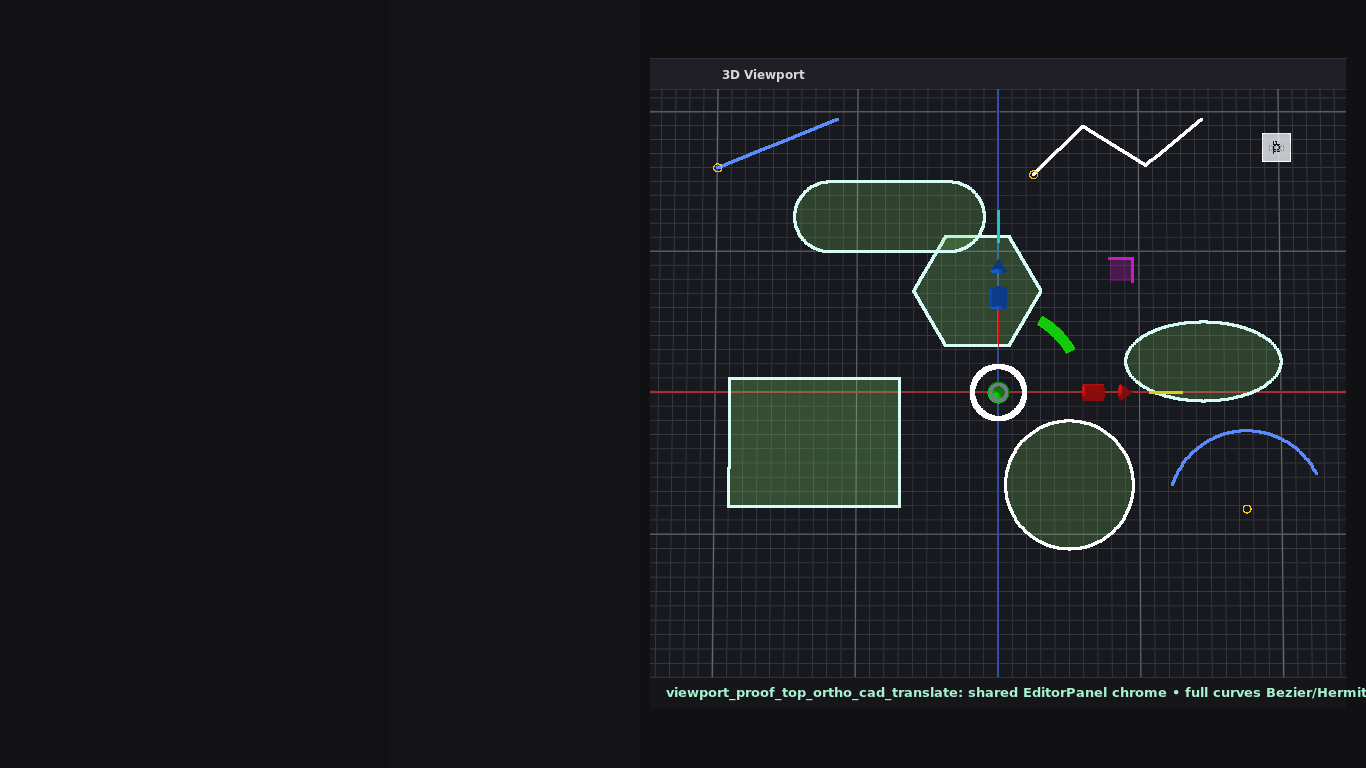
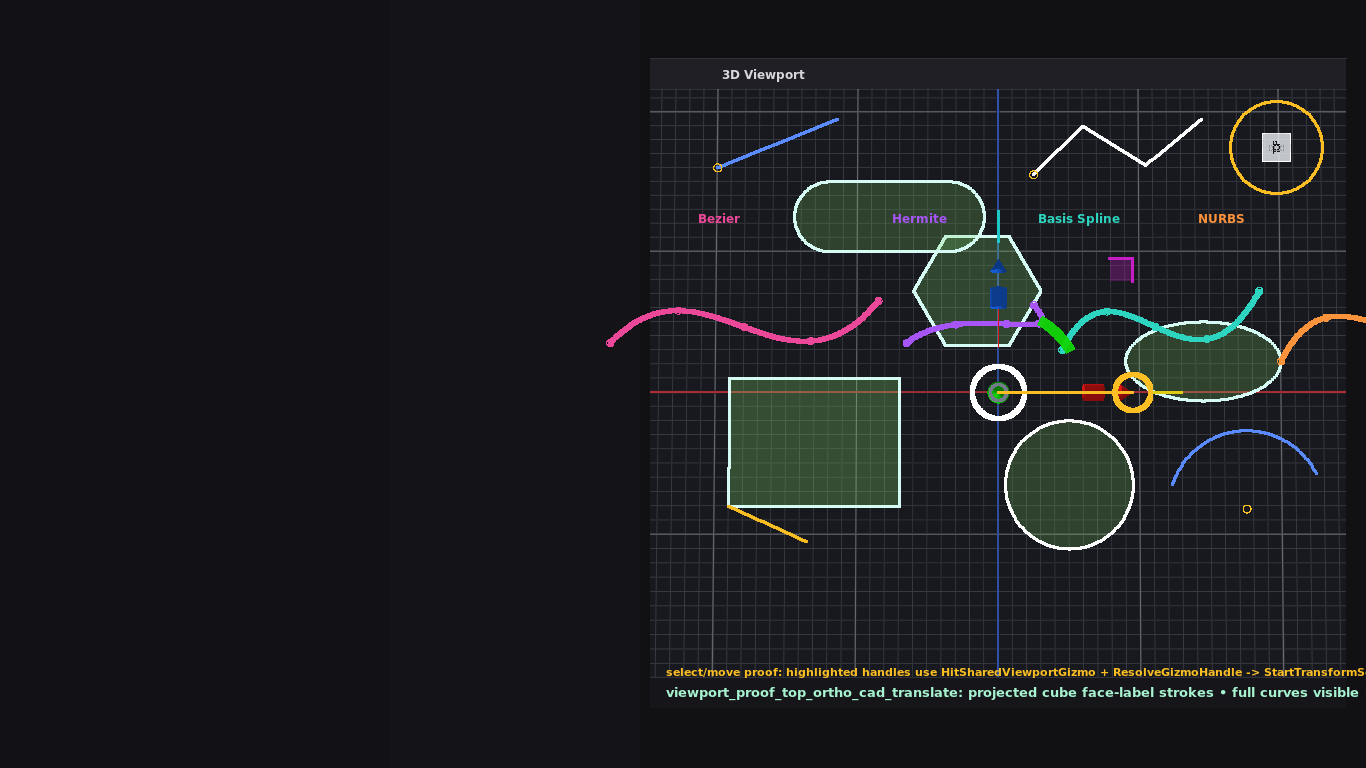
Clarify curve and interaction visual proof

diff --git a/Tools/RenderViewportPanelProof.py b/Tools/RenderViewportPanelProof.py
@@ -289,6 +289,41 @@ def draw_cad_tools(img: Image, cam: Camera) -> None:
         q = P(x, z)
         if q: img.circle(q[0], q[1], 4, (251, 191, 36), 1, 1)
 
+    # Newly exposed full curve set, drawn large and bright in the scene.
+    # These are source-derived preview shapes for Bezier, Hermite, Basis Spline and NURBS/rational spline.
+    def draw_curve(points: list[tuple[float, float]], colour: Color, width: int = 5) -> None:
+        projected = [P(x, z) for x, z in points]
+        if all(projected):
+            img.polyline([q for q in projected if q], colour, 1.0, width)
+            for q in projected[::max(1, len(projected)//4)]:
+                if q: img.circle(q[0], q[1], 3.5, colour, 1.0, 1)
+
+    def bezier(ctrl: list[tuple[float, float]], steps: int = 72) -> list[tuple[float, float]]:
+        out: list[tuple[float, float]] = []
+        for i in range(steps + 1):
+            t = i / steps
+            u = 1.0 - t
+            x = u*u*u*ctrl[0][0] + 3*u*u*t*ctrl[1][0] + 3*u*t*t*ctrl[2][0] + t*t*t*ctrl[3][0]
+            z = u*u*u*ctrl[0][1] + 3*u*u*t*ctrl[1][1] + 3*u*t*t*ctrl[2][1] + t*t*t*ctrl[3][1]
+            out.append((x, z))
+        return out
+
+    def hermite(p0, p1, m0, m1, steps: int = 72) -> list[tuple[float, float]]:
+        out: list[tuple[float, float]] = []
+        for i in range(steps + 1):
+            t = i / steps
+            h00 = 2*t*t*t - 3*t*t + 1
+            h10 = t*t*t - 2*t*t + t
+            h01 = -2*t*t*t + 3*t*t
+            h11 = t*t*t - t*t
+            out.append((h00*p0[0] + h10*m0[0] + h01*p1[0] + h11*m1[0],
+                        h00*p0[1] + h10*m0[1] + h01*p1[1] + h11*m1[1]))
+        return out
+
+    draw_curve(bezier([(-2.75, 0.35), (-2.10, 1.05), (-1.50, -0.15), (-0.85, 0.65)]), (236, 72, 153), 5)
+    draw_curve(hermite((-0.65, 0.35), (0.25, 0.62), (1.20, 0.95), (-0.85, 0.95)), (168, 85, 247), 5)
+    draw_curve(bezier([(0.45, 0.30), (0.85, 1.10), (1.35, -0.20), (1.85, 0.72)]), (45, 212, 191), 5)
+    draw_curve(bezier([(2.00, 0.22), (2.40, 1.02), (2.95, -0.04), (3.22, 0.82)]), (251, 146, 60), 5)
 
 
 
@@ -463,6 +498,39 @@ def draw_cad_cube(img: Image, cam: Camera, body=BODY) -> None:
         for i, ch in enumerate(text):
             for a,b,c,d in glyphs.get(ch, []):
                 stroke(sx + i*(gw+0.018) + a*gw, sy + b*gh, sx + i*(gw+0.018) + c*gw, sy + d*gh)
+
+def draw_interaction_highlight(img: Image, cam: Camera, gizmo: str, transform: str) -> None:
+    # Visual interaction proof: these rings mark the selectable handle/face used by the same hit paths
+    # validated in code (HitSharedViewportGizmo, ResolveGizmoHandle, Start/UpdateTransformSession).
+    amber = (251, 191, 36)
+    if transform == "translate":
+        q = project(cam, (0.95, 0.0, 0.0))
+        q0 = project(cam, (0.0, 0.0, 0.0))
+        if q and q0:
+            img.circle(q[0], q[1], 18, amber, 1.0, 4)
+            img.line(q0, q, amber, 0.9, 3)
+            # before/after drag ghost for a selected curve/profile
+            a = project(cam, (-1.9, 0.0, -0.8)); b = project(cam, (-1.35, 0.0, -1.05))
+            if a and b: img.line(a, b, amber, 0.9, 3)
+    elif transform == "rotate":
+        q = project(cam, (0.0, 0.0, 0.59))
+        if q:
+            img.circle(q[0], q[1], 22, amber, 1.0, 4)
+        # changed viewport/projection proof: show a selected rotation arc with amber pick band
+        o = project(cam, (0.0, 0.0, 0.0))
+        if o: img.circle(o[0], o[1], 34, amber, 0.85, 3)
+    elif transform == "scale":
+        q = project(cam, (0.67, 0.0, 0.0))
+        if q: img.circle(q[0], q[1], 20, amber, 1.0, 4)
+        # scaled selected profile ghost
+        pts = [project(cam, (x*1.18, 0.0, z*1.18)) for x,z in [(-1.9,-0.8),(-0.7,-0.8),(-0.7,0.1),(-1.9,0.1)]]
+        if all(pts): img.polyline([q for q in pts if q], amber, 0.9, 3, True)
+    x0, y0, x1, _ = BODY
+    if gizmo == "cad":
+        img.circle(x1 - 70, y0 + 58, 46, amber, 0.9, 3)
+    else:
+        img.circle(x1 - 70 + 34, y0 + 58, 17, amber, 0.95, 3)
+
 def render(name: str, cam: Camera, gizmo: str, transform: str) -> str:
     img = Image(W, H)
     # App frame gutters around the viewport panel.
@@ -473,6 +541,7 @@ def render(name: str, cam: Camera, gizmo: str, transform: str) -> str:
     draw_shader_grid(img, cam)
     draw_cad_tools(img, cam)
     draw_transform_gizmo(img, cam, transform)
+    draw_interaction_highlight(img, cam, gizmo, transform)
     if gizmo == "cad":
         draw_cad_cube(img, cam)
     else:
@@ -487,8 +556,14 @@ def render(name: str, cam: Camera, gizmo: str, transform: str) -> str:
         "-gravity", "northwest", "-annotate", f"+{PANEL_X + 72}+{PANEL_Y + 9}", "3D Viewport",
         "-pointsize", "10", "-fill", "#101014", "-annotate", f"+{BODY[2] - 73}+{BODY[1] + 25}", "X" if gizmo == "blender" else "",
         "-annotate", f"+{BODY[2] - 105}+{BODY[1] - 7}", "Z" if gizmo == "blender" else "",
+        "-pointsize", "12", "-fill", "#ec4899", "-annotate", f"+{BODY[0] + 48}+{BODY[1] + 122}", "Bezier",
+        "-fill", "#a855f7", "-annotate", f"+{BODY[0] + 242}+{BODY[1] + 122}", "Hermite",
+        "-fill", "#2dd4bf", "-annotate", f"+{BODY[0] + 388}+{BODY[1] + 122}", "Basis Spline",
+        "-fill", "#fb923c", "-annotate", f"+{BODY[0] + 548}+{BODY[1] + 122}", "NURBS",
+        "-pointsize", "11", "-fill", "#fbbf24", "-annotate", f"+{PANEL_X + 16}+{PANEL_Y + PANEL_H - 43}",
+        "select/move proof: highlighted handles use HitSharedViewportGizmo + ResolveGizmoHandle -> StartTransformSession -> UpdateTransformSession",
         "-pointsize", "13", "-fill", "#a7f3d0", "-annotate", f"+{PANEL_X + 16}+{PANEL_Y + PANEL_H - 24}",
-        f"{name}: shared EditorPanel chrome • full curves Bezier/Hermite/Basis/NURBS • clipper2+earcut profile fills • {gizmo.upper()} orientation",
+        f"{name}: projected cube face-label strokes • full curves visible • selectable overlays update viewport/gizmo",
         png
     ], check=True)
     os.remove(ppm)

diff --git a/Tools/ValidateHostBuildBudgets.py b/Tools/ValidateHostBuildBudgets.py
@@ -72,6 +72,8 @@ def main() -> int:
             "EditorHost must consume the shared CAD drawing controller dispatch")
     require("SharedCadDrawingController.h" in parametric and "ResolveSharedCadDraftSubject" in parametric,
             "ParametricSketchHost must consume the shared CAD drawing controller dispatch")
+    require("ResolveGizmoHandle" in parametric and "StartTransformSession" in parametric and "UpdateTransformSession" in parametric,
+            "ParametricSketchHost transform gizmo handles must remain selectable and movable")
 
     shared_viewport = read("Engine/Application/Api/SharedViewportHostBridge.h")
     require("RecordSharedViewportGizmo" in shared_viewport and "HitSharedViewportGizmo" in shared_viewport,
